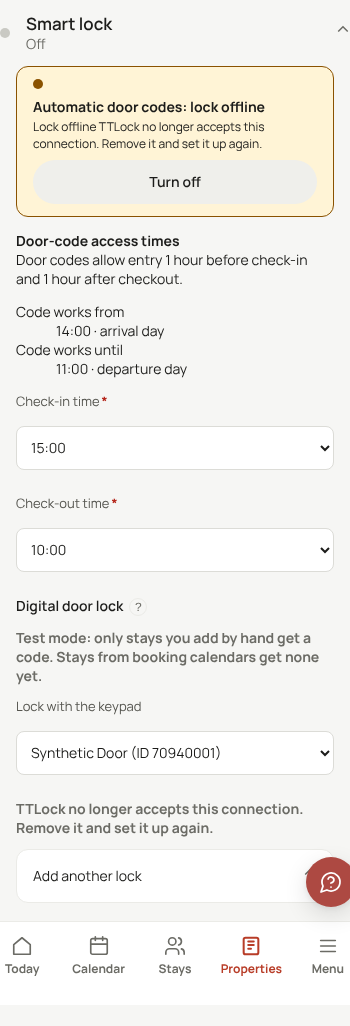
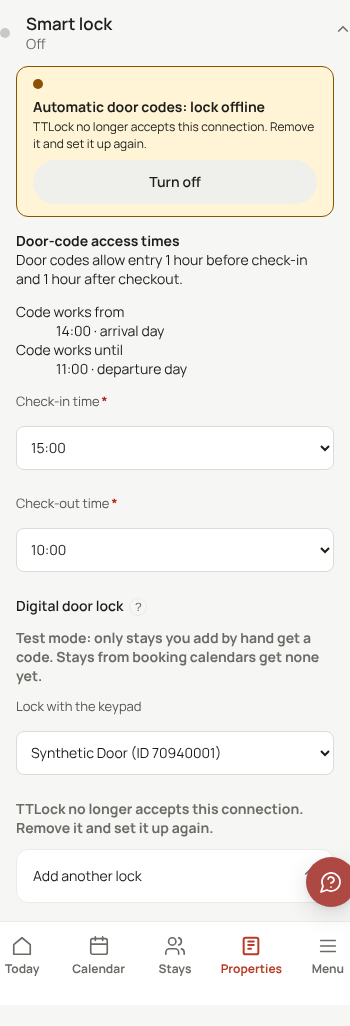
0954 step 9b
Claude-Session: https://claude.ai/code/session_01Cjmb7QWLWsEcS87gQn8cYV

Changed region(s): [[0.0857, 0.0936, 0.7429, 0.1559], [0.7714, 0.0936, 0.8, 0.1248]]

diff --git a/App/app/templates/_property_editor.html b/App/app/templates/_property_editor.html
@@ -369,7 +369,7 @@
       <i class="sd" aria-hidden="true"></i>
       <div class="lock-state-text"><b>{{ t({'off': 'smart_locks.state_off', 'times': 'smart_locks.state_times', 'offline': 'smart_locks.state_offline'}.get(door_code.state, 'smart_locks.state_on')) }}</b>
         {% if door_code.state == 'on' %}<small>{{ t('smart_locks.online') }}</small>
-        {% elif door_code.state == 'offline' %}<small>{{ t('smart_locks.offline') }}{% if door_code.account.status != 'ok' %} {{ t('smart_locks.reauth') }}{% endif %}</small>
+        {% elif door_code.state == 'offline' %}{% if door_code.account.status != 'ok' %}<small>{{ t('smart_locks.reauth') }}</small>{% endif %}
         {% elif door_code.state == 'times' %}<small>{{ t('smart_locks.times_required') }}</small>{% endif %}</div>
       <form method="post" action="/apartments/{{ apartment.id }}/door-codes" class="lock-state-form">
         <input type="hidden" name="return_to" value="/apartments/{{ apartment.id }}?view=settings&amp;section=lock#sec-lock">

diff --git a/App/tests/test_ttlock_setup_0954.py b/App/tests/test_ttlock_setup_0954.py
@@ -72,7 +72,7 @@ def test_state_block_matches_the_state(ttl, hosts, flats, state):
         assert "ui-btn-primary" in block.group(2)
     if state == "offline":
         assert "Automatic door codes: lock offline" in block.group(2)
-        assert "Lock offline" in block.group(2)
+        assert "TTLock no longer accepts this connection" in block.group(2)
         assert 'value="off"' in block.group(2)
         assert "Automatic door codes: On" not in block.group(2)
     if state == "times":
